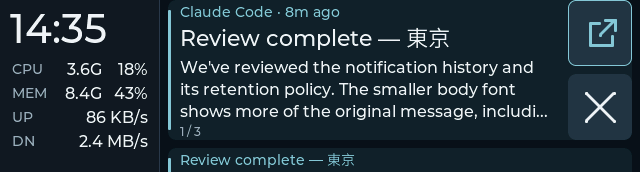
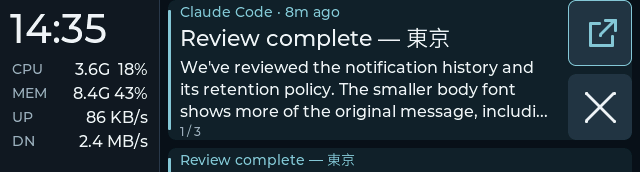
fix(349): tighten telemetry rail detail spacing

Changed region(s): [[0.0938, 0.3488, 0.1875, 0.436], [0.0938, 0.4942, 0.1875, 0.5814]]

diff --git a/projects/349-status/main/ui_deck.c b/projects/349-status/main/ui_deck.c
@@ -528,18 +528,24 @@ static void metrics(const snapshot_t *view, bool active)
     text(s_metric_details[0], value);
     format_memory(value, sizeof(value), d->mem_used_bytes_valid, d->mem_used_bytes);
     text(s_metric_details[1], value);
-    if (d->cpu_valid) {
-        snprintf(value, sizeof(value), "%d%%", (int)(d->cpu * 100 + .5f));
-    } else {
-        strlcpy(value, "--", sizeof(value));
+    const bool usage_valid[] = {d->cpu_valid, d->mem_valid};
+    const float usage[] = {d->cpu, d->mem};
+    for (int i = 0; i < 2; i++) {
+        const int percent = usage_valid[i] ? (int)(usage[i] * 100 + .5f) : 0;
+        if (usage_valid[i]) {
+            snprintf(value, sizeof(value), "%d%%", percent);
+        } else {
+            strlcpy(value, "--", sizeof(value));
+        }
+        /* Keep 100% intact without widening the reserved 99% + space column. */
+        const lv_font_t *font = usage_valid[i] && percent == 100
+            ? &lv_font_montserrat_14 : &status_text_16;
+        const int baseline_offset = status_text_16.line_height - status_text_16.base_line
+            - font->line_height + font->base_line;
+        lv_obj_set_style_text_font(s_metric_values[i], font, 0);
+        lv_obj_set_y(s_metric_values[i], top + i * step + baseline_offset);
+        text(s_metric_values[i], value);
     }
-    text(s_metric_values[0], value);
-    if (d->mem_valid) {
-        snprintf(value, sizeof(value), "%d%%", (int)(d->mem * 100 + .5f));
-    } else {
-        strlcpy(value, "--", sizeof(value));
-    }
-    text(s_metric_values[1], value);
     format_rate(value, sizeof(value), d->tx_bytes_per_s_valid, d->tx_bytes_per_s);
     text(s_metric_values[2], value);
     format_rate(value, sizeof(value), d->rx_bytes_per_s_valid, d->rx_bytes_per_s);
@@ -1499,15 +1505,15 @@ void ui_deck_init(lv_obj_t *parent, const lv_font_t *small, const lv_font_t *met
     const char *names[] = {"CPU", "MEM", "UP", "DN"};
     for (int i = 0; i < 4; i++) {
         s_metric_names[i] = label(rail, 12, 61 + 24 * i, 36, 21, s_meta, SECONDARY, names[i]);
-        const int value_x = i < 2 ? 106 : 52;
-        /* 42 px is exactly the generated 16 px font's width for "100%". */
-        const int value_width = i < 2 ? 42 : 96;
+        const int value_x = i < 2 ? 110 : 52;
+        /* 38 px reserves "99%" (34 px) plus one space (4 px). */
+        const int value_width = i < 2 ? 38 : 96;
         s_metric_values[i] = label(rail, value_x, 58 + 24 * i, value_width, 26,
                                    &status_text_16, FOREGROUND, "--");
         lv_obj_set_style_text_align(s_metric_values[i], LV_TEXT_ALIGN_RIGHT, 0);
     }
     for (int i = 0; i < 2; i++) {
-        s_metric_details[i] = label(rail, 52, 58 + 24 * i, 50, 26,
+        s_metric_details[i] = label(rail, 52, 58 + 24 * i, 58, 26,
                                    &status_text_16, FOREGROUND, "--");
         lv_obj_set_style_text_align(s_metric_details[i], LV_TEXT_ALIGN_RIGHT, 0);
     }

diff --git a/projects/349-status/tools/native_ui/test_groups.c b/projects/349-status/tools/native_ui/test_groups.c
@@ -134,21 +134,29 @@ static void assert_rail_geometry(void)
         assert(lv_obj_get_x(s_metric_names[i]) == 12);
         assert(lv_obj_get_y(s_metric_names[i]) == 61 + 24 * i);
         assert(lv_obj_get_width(s_metric_names[i]) == 36);
-        assert(lv_obj_get_x(s_metric_values[i]) == (i < 2 ? 106 : 52));
-        assert(lv_obj_get_y(s_metric_values[i]) == 58 + 24 * i);
-        assert(lv_obj_get_width(s_metric_values[i]) == (i < 2 ? 42 : 96));
+        const lv_font_t *font = lv_obj_get_style_text_font(s_metric_values[i], 0);
+        const bool full_usage = i < 2 && strcmp(label_storage(s_metric_values[i]), "100%") == 0;
+        const int baseline_offset = status_text_16.line_height - status_text_16.base_line
+            - font->line_height + font->base_line;
+        assert(lv_obj_get_x(s_metric_values[i]) == (i < 2 ? 110 : 52));
+        assert(lv_obj_get_y(s_metric_values[i]) == 58 + 24 * i + baseline_offset);
+        assert(lv_obj_get_width(s_metric_values[i]) == (i < 2 ? 38 : 96));
         assert(text_width(label_storage(s_metric_names[i]), s_meta) <= 36);
-        assert(text_width(label_storage(s_metric_values[i]), &status_text_16) <=
-               lv_obj_get_width(s_metric_values[i]));
-        assert(lv_obj_get_style_text_font(s_metric_values[i], 0) == &status_text_16);
+        const int width = text_width(label_storage(s_metric_values[i]), font);
+        assert(width <= lv_obj_get_width(s_metric_values[i]));
+        assert(font == (full_usage ? &lv_font_montserrat_14 : &status_text_16));
+        if (i < 2) {
+            assert(lv_obj_get_x(s_metric_values[i]) + lv_obj_get_width(s_metric_values[i]) - width >=
+                   lv_obj_get_x(s_metric_details[i]) + lv_obj_get_width(s_metric_details[i]));
+        }
     }
-    assert(text_width("100%", &status_text_16) == 42);
+    assert(text_width("99%", &status_text_16) + text_width(" ", &status_text_16) == 38);
     for (int i = 0; i < 2; i++) {
         assert(lv_obj_get_x(s_metric_details[i]) == 52);
         assert(lv_obj_get_y(s_metric_details[i]) == 58 + 24 * i);
-        assert(lv_obj_get_width(s_metric_details[i]) == 50);
+        assert(lv_obj_get_width(s_metric_details[i]) == 58);
         assert(lv_obj_get_style_text_align(s_metric_details[i], 0) == LV_TEXT_ALIGN_RIGHT);
-        assert(text_width(label_storage(s_metric_details[i]), &status_text_16) <= 50);
+        assert(text_width(label_storage(s_metric_details[i]), &status_text_16) <= 58);
     }
 }
 
@@ -207,6 +215,7 @@ static void rail_telemetry_captures(void)
         assert_rail_geometry();
         assert(strcmp(label_storage(s_metric_details[0]), "3.6G") == 0);
         assert(strcmp(label_storage(s_metric_details[1]), "8.4G") == 0);
+        if (percentages[i] == .99f) assert(capture_frame("telemetry-rail-details-99-percent"));
     }
     assert(capture_frame("telemetry-rail-details-100-percent"));
     s_state.dashboard.mem = .43f;

diff --git a/projects/349-status/design/telemetry-rail-details.md b/projects/349-status/design/telemetry-rail-details.md
@@ -10,19 +10,22 @@ Keep the 160 px left rail, local HH:MM, four fixed row baselines and footer.
 The row order is CPU, MEM, UP, DN. Example readings:
 
 ```text
-CPU  3.6G      18%
-MEM  8.4G      43%
+CPU    3.6G 18%
+MEM    8.4G 43%
 UP        86 KB/s
 DN       2.4 MB/s
 ```
 
-Labels begin at x=12. CPU/MEM detail widgets begin at x=52 and occupy 50 px,
-right aligned through x=102 so their unit letters stay fixed.
-Percentages occupy a separate 42 px column at x=106, right aligned through
-x=148, separated from details by 4 px. The generated font's `100%` measures
-exactly 42 px; `1%`, `99%`, `100%` and `--` cannot shift the detail widgets. Traffic
-occupies x=52 through x=148. All values use the existing 16 px font, giving
-traffic and CPU/MEM equal visual weight. Names use the existing metadata font.
+Labels begin at x=12. CPU/MEM detail widgets begin at x=52 and occupy 58 px,
+right aligned through x=110 so their unit letters stay fixed.
+Percentages occupy a separate 38 px column at x=110, right aligned through
+x=148. This reserves the generated 16 px font's `99%` (34 px) plus one space
+(4 px), shifting the detail units 8 px right from the first accepted layout.
+`100%` uses the existing 14 px Montserrat font, aligned to the same baseline,
+so it fits without overlapping details. `1%`, `99%`, `100%` and `--` cannot
+shift the detail widgets. Traffic occupies x=52 through x=148. Other values
+use the existing 16 px font, giving traffic and CPU/MEM equal visual weight.
+Names use the existing metadata font.
 The same geometry applies to recent-notification history and legacy dashboard
 views, including empty, stale and disconnected states.
 
@@ -71,16 +74,17 @@ maximum wire values.
   average current frequency, paired memory sampling, unavailable readings,
   optional backward-compatible readback, bounds and full-sync coherence.
 - Native LVGL/composed protocol suites: 10/10 in Debug and 10/10 in Release.
-  Checks measure text with the actual 16 px font, keep the same widget positions
-  across `1%`/`99%`/`100%`, exercise unit rounding and verify UP/DN binding.
+  Checks measure text with the actual fonts, keep detail positions fixed and
+  percentage baselines aligned across `1%`/`99%`/`100%`, exercise unit rounding
+  and verify UP/DN binding.
 - Standalone firmware dashboard parser: warnings-as-errors build and checks pass,
   including nullable details, integral memory and numeric bounds.
 - ESP-IDF firmware build passes. Native captures are synthetic UI evidence;
   device USB readback and physical readability are separate gates below.
 
-## Starship deployment
+## Prior accepted Starship deployment
 
-The refined firmware is running on Starship's attached board:
+The first spacing refinement was accepted on Starship's attached board:
 
 | Artifact | Value |
 |---|---|
@@ -115,3 +119,21 @@ The user confirmed **"Aligned and readable"** on the refined Starship build:
 unit letters stay fixed, percentages have a clear gap, and UP is above DN.
 This accepts the brief rail readability/alignment check. It does not add a
 long-duration stability or rendering-performance claim.
+
+## Tighter spacing follow-up
+
+The requested `99%` plus one-space reservation is implemented in the layout
+above. Debug and Release native suites each pass 10/10, including actual-font
+width and non-overlap checks at 99% and 100%, plus captures of both cases.
+The firmware build passes; Starship now runs ELF SHA prefix `293745885`
+from `c144f53` plus this spacing change. The previous accepted `8987b3aa3`
+image and configuration are preserved in
+`~/.local/share/esp32/backups/rail-spacing-starship-20260929T080000Z/`.
+
+The daemon was paused for flashing and resumed without restarting. Its
+configuration is unchanged. Four normal-feed USB readbacks agree with the
+surrounding host snapshots; the new firmware hello and runtime source hashes
+match the candidate image. The user confirmed **"better"** on Starship after
+this spacing adjustment. This observes the normal rail spacing; the 100%
+fallback remains covered by native captures rather than a physical full-load
+test.

diff --git a/projects/349-status/README.md b/projects/349-status/README.md
@@ -182,10 +182,11 @@ cached cards; `+N uncached` is a separate count, not a navigation target.
 All dashboard layouts keep local HH:MM and fixed CPU, MEM, UP, and DN rows.
 CPU shows average current host frequency and usage; MEM shows used memory
 and usage. Details and percentages occupy separate fixed columns, both right
-aligned to keep unit letters fixed, with exactly enough room for `100%`.
+aligned to keep unit letters fixed. The percentage column reserves `99%` plus
+one space; `100%` uses the existing 14 px font on the same baseline to fit.
 `3.6G` on CPU means GHz; `8.4G` on MEM means GiB. Memory usage is
 `MemTotal - MemAvailable`, with the amount and percentage from the same read.
-All four value rows use 16 px text. UP/DN show physical-uplink transmit/receive
+Values otherwise use 16 px text. UP/DN show physical-uplink transmit/receive
 traffic in decimal B/s, KB/s, MB/s, or GB/s. The rail has no battery row. Volume and Bluetooth changes
 appear briefly. Bluetooth probing is optional
 and failure leaves that reading unavailable. Details and acceptance scope are
